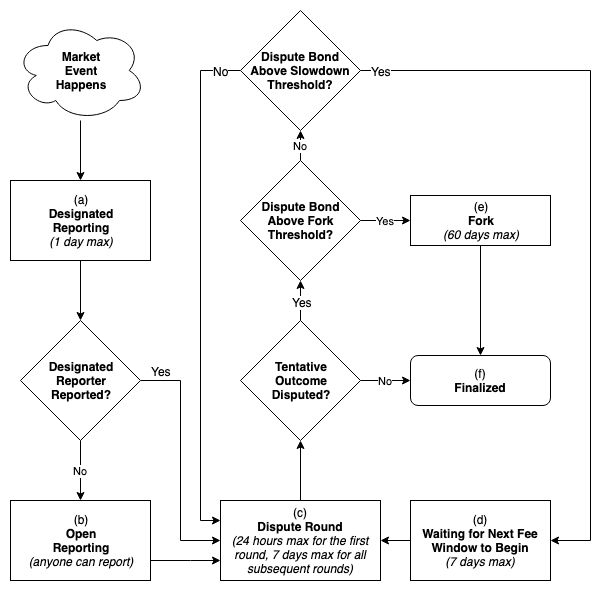
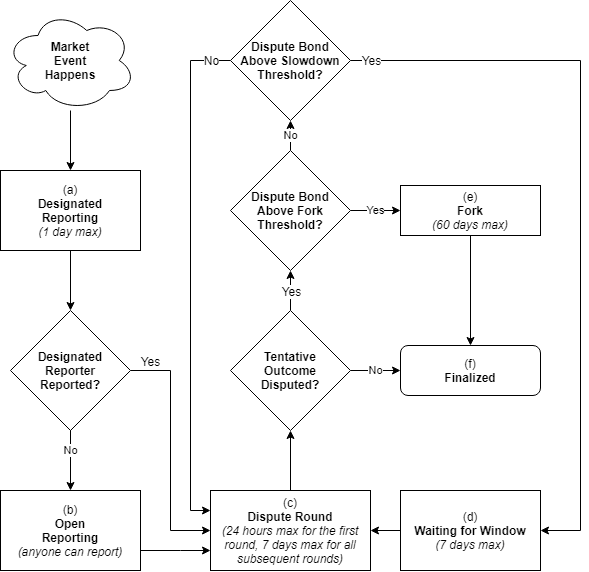
Change to "Waiting for Window"
Fixed typo (reference:https://github.com/AugurProject/whitepaper/pull/66#discussion_r470392438).
Changed `Waiting for Next Fee Window to Begin` to `Waiting for Window` in the flowchart.

diff --git a/v2/english/main.tex b/v2/english/main.tex
@@ -167,7 +167,7 @@ The bond sizes are chosen this way to ensure a fixed ROI for reporters who succe
 
 The dispute bonds need not be paid in their entirety by a single user.  The Augur platform allows participants to crowdsource dispute bonds.  Any user who sees an incorrect tentative outcome can dispute that outcome by staking REP on an outcome other than the tentative outcome. If any outcome (other than the tentative outcome) accumulates enough dispute stake to fill its dispute bond, the current tentative outcome will be successfully disputed.
 
-In the case of a successful dispute, One of three things will happen: the market will either undergo another dispute round immediately, the market will wait until the next fee window to begin before undergoing another dispute round, or the market will enter the \textit{fork} state (Fig.~\ref{fig:reporting}e).  If the size of the filled dispute bond is greater than or equal to 2.5\% of all REP, then the market will enter the fork state. If the size of the filled dispute bond is less than 2.5\% of all REP but greater than or equal to 0.02\% of all REP, then the newly chosen outcome becomes the market's new tentative outcome and the market enters the \textit{waiting for window} phase (Fig.~\ref{fig:reporting}d). If the size of the filled dispute bond is less than 0.02\% of all REP, then the newly chosen outcome becomes the market's new tentative outcome and the market immediately enters another dispute round.
+In the case of a successful dispute, One of three things will happen: the market will either undergo another dispute round immediately, the market will wait until the next fee window begins before undergoing another dispute round, or the market will enter the \textit{fork} state (Fig.~\ref{fig:reporting}e).  If the size of the filled dispute bond is greater than or equal to 2.5\% of all REP, then the market will enter the fork state. If the size of the filled dispute bond is less than 2.5\% of all REP but greater than or equal to 0.02\% of all REP, then the newly chosen outcome becomes the market's new tentative outcome and the market enters the \textit{waiting for window} phase (Fig.~\ref{fig:reporting}d). If the size of the filled dispute bond is less than 0.02\% of all REP, then the newly chosen outcome becomes the market's new tentative outcome and the market immediately enters another dispute round.
 
 All dispute stake is held in escrow during the dispute round. If a dispute bond is unsuccessful, then the dispute stake is returned to its owners at the end of the dispute round. If no dispute is successful during the dispute round, then the market enters the \textit{finalized} state (Fig.~\ref{fig:reporting}f), and its tentative outcome is accepted as its \textit{final outcome}.  A market's final outcome is the tentative outcome that passes through a dispute round without being successfully disputed, or is determined via a fork.  Augur's contracts treat final outcomes as \textit{truth} and pay out accordingly.
 
